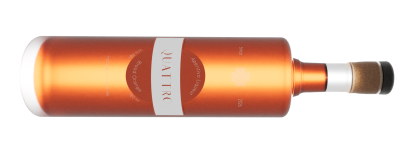
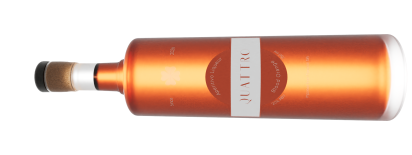
Update Product Images
This commit changed the product images for the blood orange and pomegranate flavors, so the bottles were alternating in orientation

diff --git a/products.html b/products.html
@@ -66,7 +66,7 @@
 
             <picture id="bloodOrange" class="beverageFlavor col-span-full md:col-span-full lg:col-span-4">
                 <source srcset="images/bottle-front-blood-orange-400.png" media="(min-width: 1200px)">
-                <source srcset="images/bottle-side-blood-orange-830.png" media="(min-width: 768px)">
+                <source srcset="images/bottle-side-blood-orange-821.png" media="(min-width: 768px)">
                 <img src="images/bottle-side-blood-orange-412.png" alt="Blood Orange Liqueur">
             </picture>
 
@@ -78,7 +78,7 @@
 
             <picture id="pomegranate" class="beverageFlavor col-span-full md:col-span-full lg:col-span-4">
                 <source srcset="images/bottle-front-pomegranate-400.png" media="(min-width: 1200px)">
-                <source srcset="images/bottle-side-pomegranate-827.png" media="(min-width: 768px)">
+                <source srcset="images/bottle-side-pomegranate-823.png" media="(min-width: 768px)">
                 <img src="images/bottle-side-pomegranate-412.png" alt="Pomegranate Liqueur">
             </picture>
 

diff --git a/index.html b/index.html
@@ -67,7 +67,7 @@
 
             <picture class="col-span-full md:col-span-full lg:col-span-4">
                 <source srcset="images/bottle-front-blood-orange-400.png" media="(min-width: 1200px)">
-                <source srcset="images/bottle-side-blood-orange-830.png" media="(min-width: 768px)">
+                <source srcset="images/bottle-side-blood-orange-821.png" media="(min-width: 768px)">
                 <img src="images/bottle-side-blood-orange-412.png" alt="Blood Orange Liqueur">
             </picture>
 
